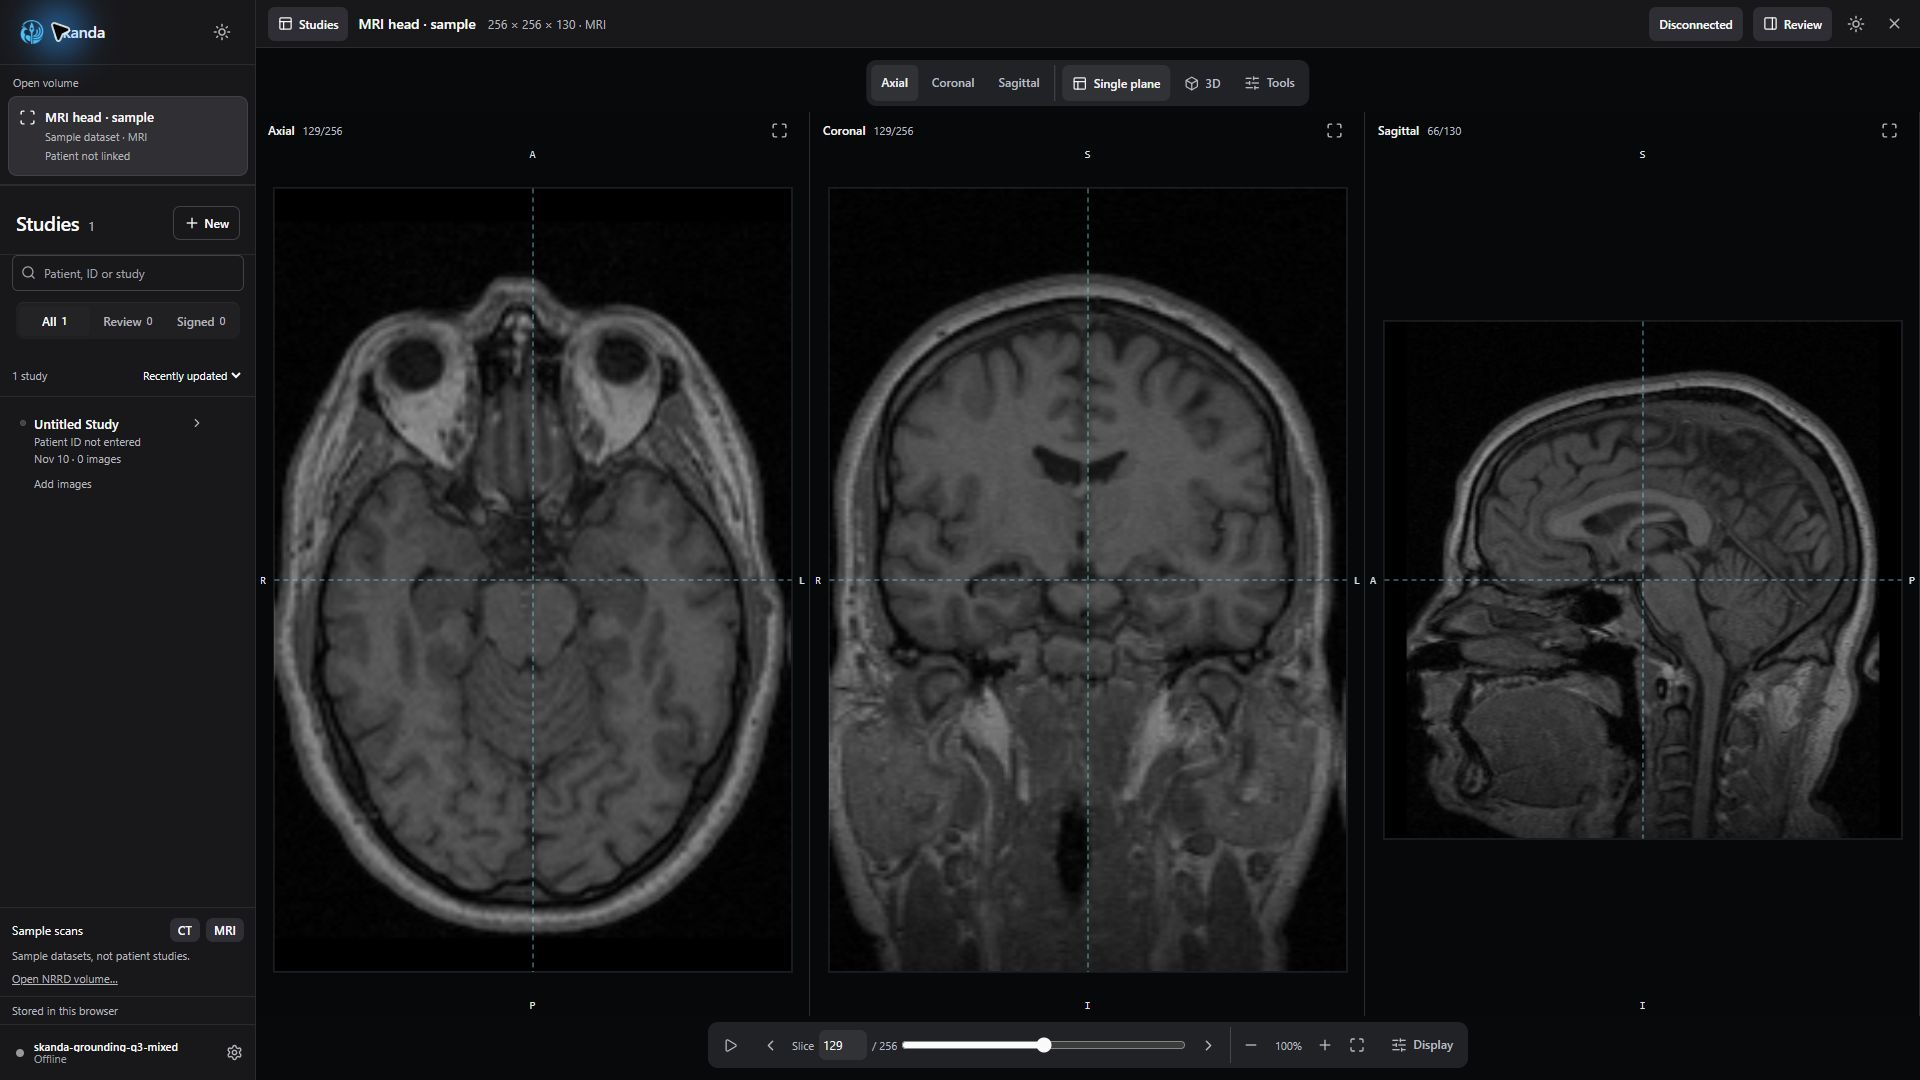
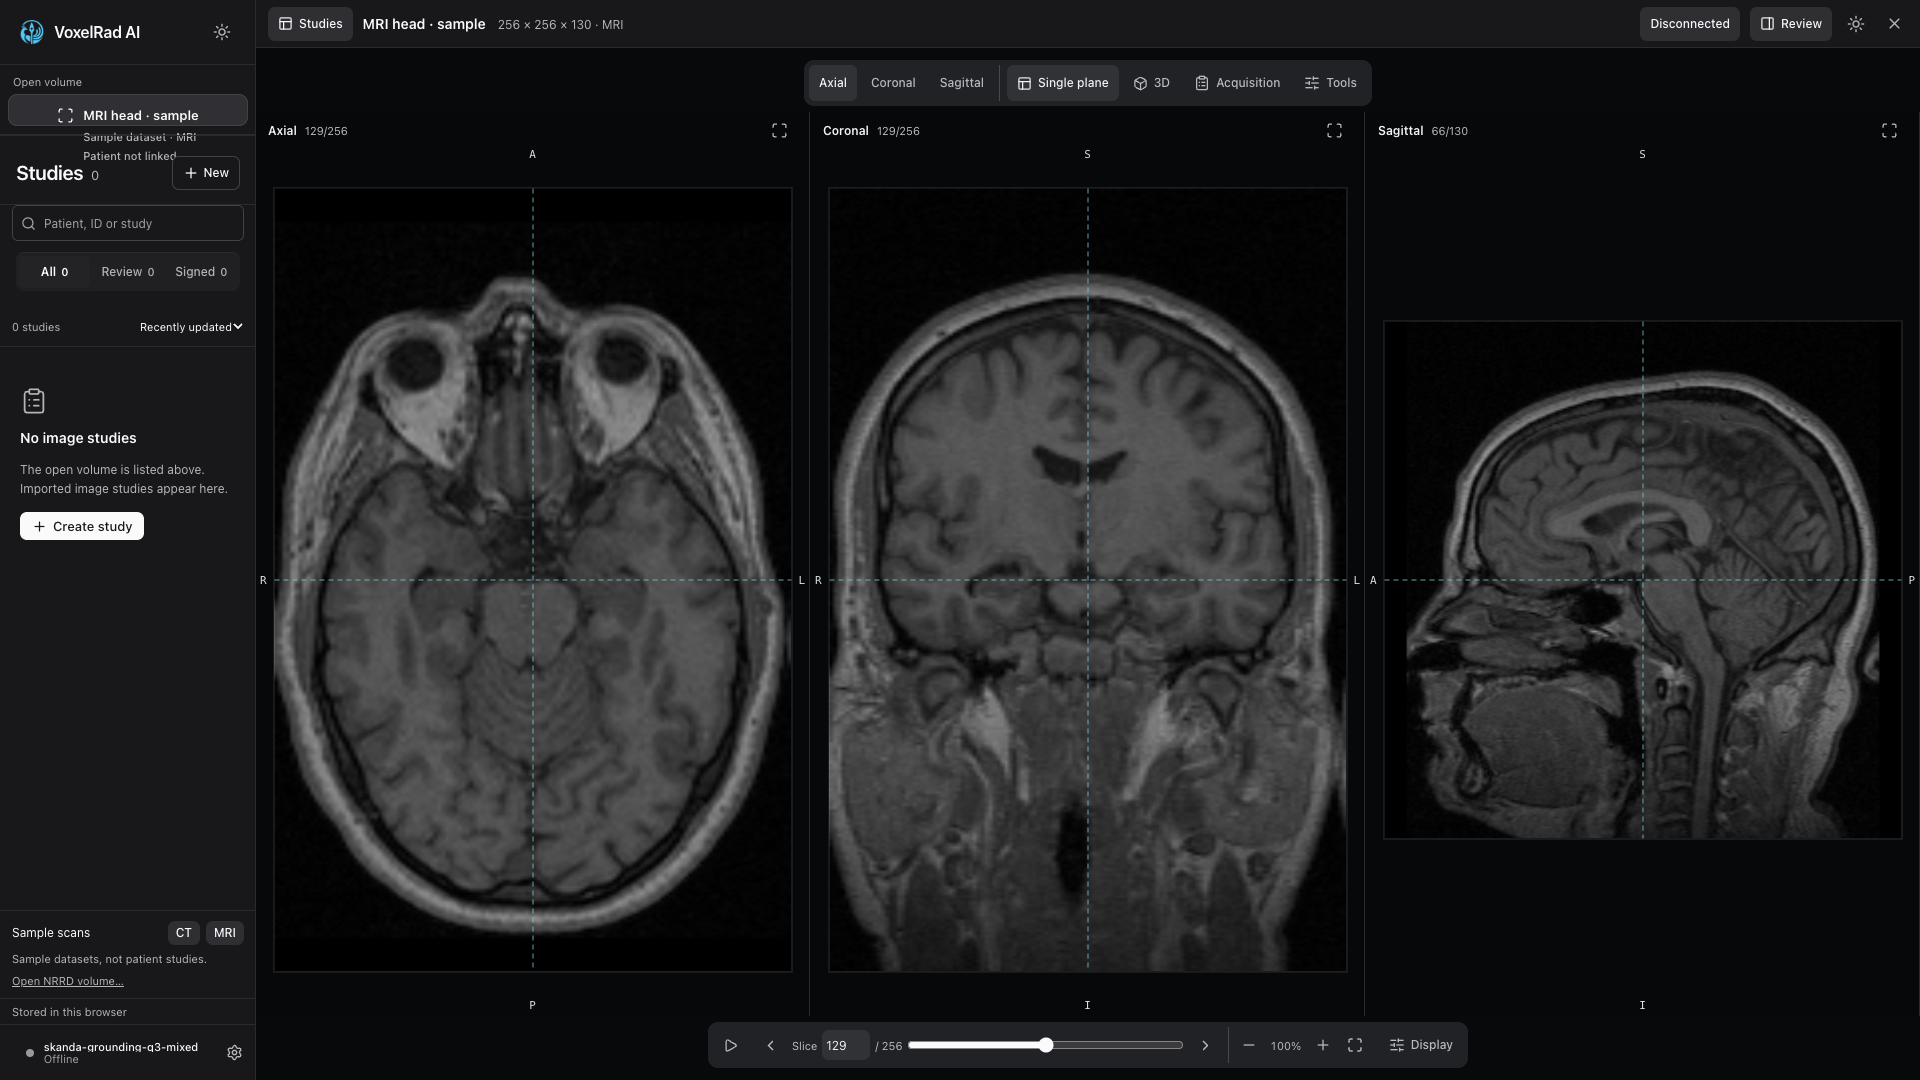
Retake CT and MRI workspace screenshots from current main
Capture ct-workspace, ct-review, mri-three-planes and study-workspace from
the local dev app with headless Chrome at 1920x1080, and update capture
dates and notes. X-ray captures are unchanged.

diff --git a/docs/screenshots/v0.2.0/README.md b/docs/screenshots/v0.2.0/README.md
@@ -1,11 +1,11 @@
 # Workspace captures
 
-Captured November 10, 2026 from the actual application at `127.0.0.1:5173`, in Chrome fullscreen at 1920 x 1080. Screenshots were captured through native computer-use tooling and saved without image editing.
+The four CT/MRI captures were retaken November 12, 2026 from the running development application at `127.0.0.1:5173` (local browser-storage mode). System Chrome was driven headlessly through `playwright-core` at a 1920 x 1080 viewport, and the images were saved without editing. Focus was cleared before each capture so no tooltips or focus rings show.
 
-- `ct-workspace.png`: CT brain teaching sample, axial slice 33/76, optional panels collapsed.
-- `ct-review.png`: same CT sample with the 3D locator and review panel open.
+- `ct-workspace.png`: CT brain teaching sample, axial slice 39/76 (default), optional panels collapsed.
+- `ct-review.png`: same CT sample with the 3D locator and Review panel open.
 - `mri-three-planes.png`: MRI head teaching sample in synchronized three-plane view.
-- `study-workspace.png`: MRI workspace with the study sidebar visible; its empty Untitled Study contains no patient information.
+- `study-workspace.png`: MRI three-plane workspace with the Studies sidebar open. The worklist is empty and the sample is not linked to a patient.
 
 The model service was disconnected. No findings were generated for these captures. Sample provenance is recorded in `app/public/samples/provenance.json` at the repository root. These images show the application layout, not clinical validation or segmentation performance.
 

diff --git a/README.md b/README.md
@@ -106,7 +106,7 @@ Open **http://localhost:8088**. For HTTPS, persistence and backups, see the [dep
   </tr>
 </table>
 
-<sub>Workspace captured November 10, 2026 with public teaching samples and no model running. These screenshots show layout and navigation, not diagnostic performance.</sub>
+<sub>CT and MRI views captured November 12, 2026 (X-ray November 10) with public teaching samples and no model running. These screenshots show layout and navigation, not diagnostic performance.</sub>
 
 ## 📊 Benchmarks
 
